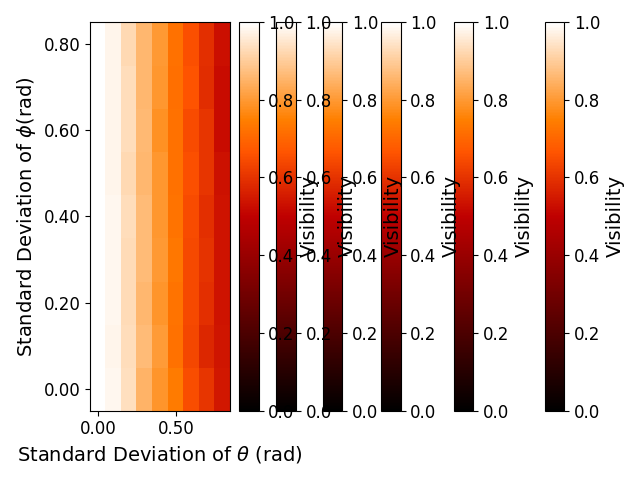
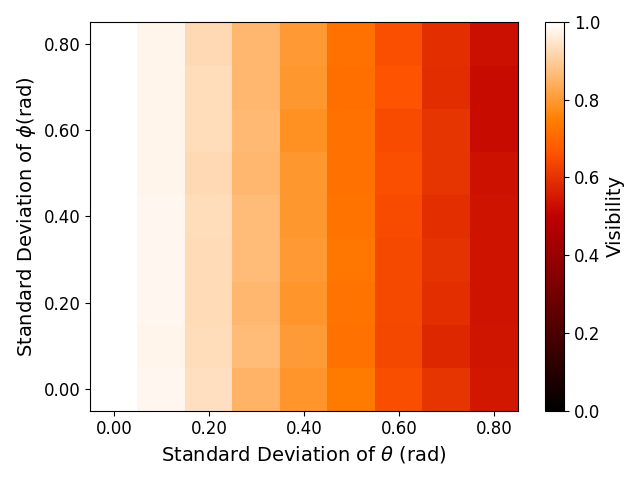
Added metric compatibility with raw transfer matrices.

diff --git a/OptiQuantum/metrics.py b/OptiQuantum/metrics.py
@@ -3,7 +3,7 @@ import numpy as np
 def HOM_simple(mesh, idx_in1, idx_in2, idx_out1, idx_out2, tau, sigma):
     '''Function for HOM coincidence probability without integration.
     Fails when transfer matrices have strong frequency dependence
-    :param mesh: The Neuroptica mesh under simulation
+    :param mesh: The matrix or Neuroptica mesh under simulation
     :param idx_in1: Waveguide index of the first input path
     :param idx_in2: Waveguide index of the second input path
     :param idx_out1: Waveguide index of the first output path
@@ -12,7 +12,10 @@ def HOM_simple(mesh, idx_in1, idx_in2, idx_out1, idx_out2, tau, sigma):
     :param sigma: Standard deviation of the photon mean frequency
     '''
     #Get transfer matrix
-    transfer = mesh.get_transfer_matrix()
+    if isinstance(mesh,np.ndarray):
+        transfer = mesh
+    else:
+        transfer = mesh.get_transfer_matrix()
 
     #Evaluate visiblity
     term1 = transfer[idx_out1,idx_in2]*(transfer[idx_out1,idx_in2].conj())*transfer[idx_out2,idx_in1]*(transfer[idx_out2,idx_in1].conj())
@@ -27,14 +30,17 @@ def HOM_simple(mesh, idx_in1, idx_in2, idx_out1, idx_out2, tau, sigma):
 
 def visibility(mesh, idx_in1, idx_in2, idx_out1, idx_out2):
     '''Function for calculating HOM visibility.
-    :param mesh: The Neuroptica mesh under simulation
+    :param mesh: The matrix or Neuroptica mesh under simulation
     :param idx_in1: Waveguide index of the first input path
     :param idx_in2: Waveguide index of the second input path
     :param idx_out1: Waveguide index of the first output path
     :param idx_out2: Waveguide index of the second output path
     '''
     #Get transfer matrix
-    transfer = mesh.get_transfer_matrix()
+    if isinstance(mesh,np.ndarray):
+        transfer = mesh
+    else:
+        transfer = mesh.get_transfer_matrix()
 
     #Evaluate visiblity
     term1 = transfer[idx_out1,idx_in2]*(transfer[idx_out1,idx_in2].conj())*transfer[idx_out2,idx_in1]*(transfer[idx_out2,idx_in1].conj())
@@ -50,12 +56,23 @@ def visibility(mesh, idx_in1, idx_in2, idx_out1, idx_out2):
     return visib
 
 def fidelity(mesh, ideal = None):
+    '''Function for calculating circuit fidelity
+    :param mesh: The matrix or Neuroptica mesh under simulation
+    :param ideal: The ideal unitary matrix.  Must not be None if mesh is a matrix.
+    '''
     #Get ideal matrix U and lossy/uncertain matrix T
     if ideal is None:
+        if isinstance(mesh,np.ndarray):
+            raise ValueError("If transfer matrix is provided instead of mesh, ideal matrix must be provided.")
+        else:
+            T = mesh.get_transfer_matrix()
         U = mesh.get_transfer_matrix(add_uncertainties=False, add_loss=False)
     else:
+        if isinstance(mesh,np.ndarray):
+            T = mesh
+        else:
+            T = mesh.get_transfer_matrix()
         U = ideal
-    T = mesh.get_transfer_matrix()
 
     #Calculate hermitian conjugates
     U_H = U.conj().T
@@ -67,7 +84,7 @@ def fidelity(mesh, ideal = None):
 
 def transmittance(mesh, idx_in1, idx_in2, idx_out1, idx_out2, add_uncertainties=True, add_loss=False):
     '''Function for calculating biphoton transmittance.
-    :param mesh: The Neuroptica mesh under simulation
+    :param mesh: The matrix or Neuroptica mesh under simulation
     :param idx_in1: Waveguide index of the first input path
     :param idx_in2: Waveguide index of the second input path
     :param idx_out1: Waveguide index of the first output path

diff --git a/OptiQuantum_tests/figure_generation/visibility_plotter.py b/OptiQuantum_tests/figure_generation/visibility_plotter.py
@@ -14,9 +14,10 @@ def main():
     n_phase = int(max_phase/step_size_phase) + 1
     phases = np.linspace(0,max_phase,n_phase)
 
-    for n in range(9):
+    for n in range(6):
 
-        visibs = np.loadtxt(f'figures_set1/Update November 19/Clements Mesh/visibility_vs_phase_sd_Clements_1000samples_MZI_{n+1}')
+        #visibs = np.loadtxt(f'figures_set1/Update November 19/Clements Mesh/visibiity_vs_phase_sd_Clements_1000samples_MZI_{n+1}.txt')
+        visibs = np.loadtxt(f'figures_set1/visibiity_vs_random_phases_Reck_1000samples_MZI_{n+1}.txt')
         cmap='gist_heat'
 
         #Plotting code from ONN_Simulation_Class.py
@@ -54,7 +55,9 @@ def main():
 
         #plt.show()
 
-        plt.savefig(f'figures_set1/Update November 19/Clements Mesh/visibility_vs_phase_sd_Clements_1000samples_MZI_{n+1}.png')
+        plt.savefig(f'figures_set1/Update November 19/Reck Mesh/visibility_vs_phase_sd_Reck_1000samples_MZI_{n+1}.png')
+
+        plt.clf()
 
 if __name__ == '__main__':
     main()
